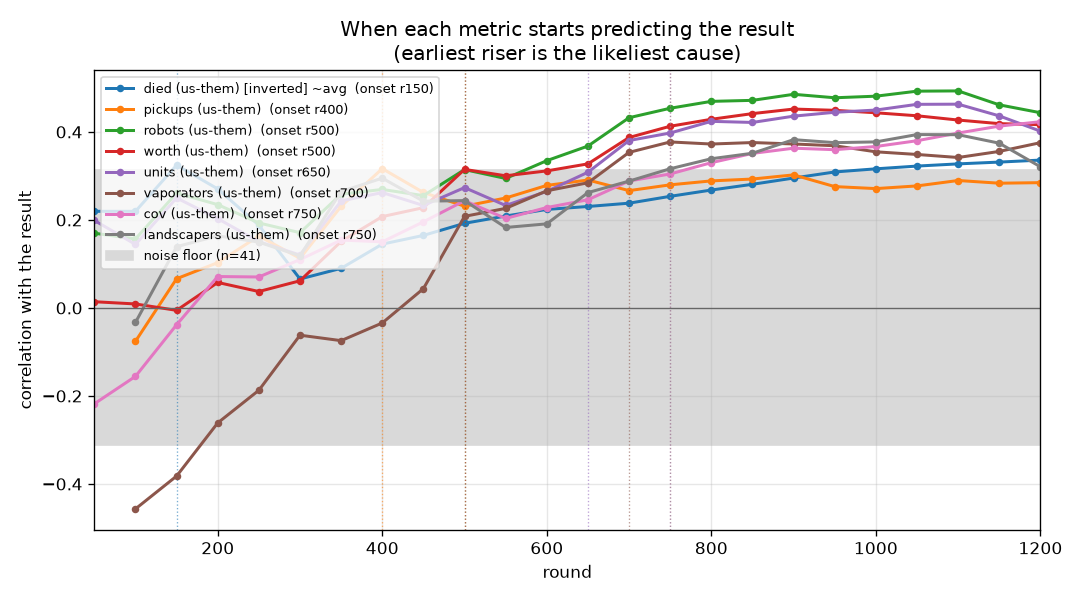
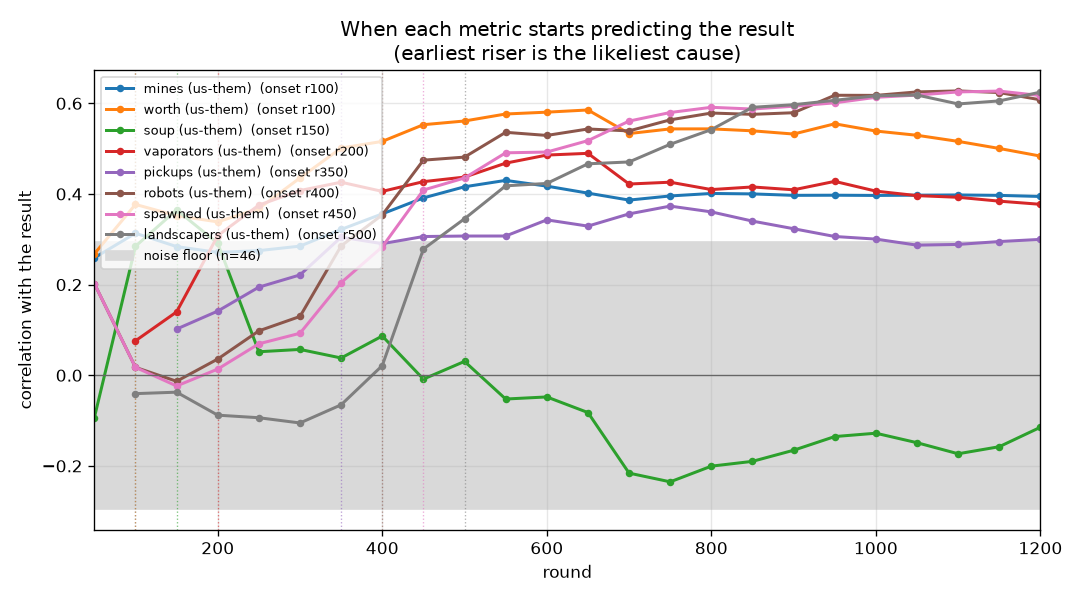
Arm 49b: 42-54, late losses 25 of 96 (bar 22, null); gate 49b 3-0 discordant at 160 pairs; ladder files
Claude-Session: https://claude.ai/code/session_015tNyF5ucwWW1mudpEQTT25

diff --git a/progress/ELO.md b/progress/ELO.md
@@ -1,110 +1,112 @@
 # Ladder
 
-4985 scrimmages (ours only), 4461 distinct (a repeated pairing with the same seed replays the same game and counts once), rated by a batch Bradley-Terry fit on the Elo scale (`tools/elolib.py`); each of our builds is its own player. 65 of 65 ladder bots met.
+5081 scrimmages (ours only), 4557 distinct (a repeated pairing with the same seed replays the same game and counts once), rated by a batch Bradley-Terry fit on the Elo scale (`tools/elolib.py`); each of our builds is its own player. 65 of 65 ladder bots met.
 
 Our builds (rating +- 95%; field score = expected score against every ladder bot, one game each):
 
 | build | rating | rank | games | record | field score |
 |---|---|---|---|---|---|
-| cand43b | 1761 +- 79 | 14 of 82 | 96 | 64-32 | 76.2% |
-| cand47d | 1742 +- 53 | 17 of 82 | 192 | 73-119 | 75.1% |
-| g_iter9 | 1727 +- 48 | 18 of 82 | 240 | 78-162 | 74.2% |
-| g_iter8 | 1715 +- 49 | 19 of 82 | 240 | 108-132 | 73.4% |
-| cand41b | 1713 +- 76 | 20 of 82 | 96 | 51-45 | 73.3% |
-| g_iter7 | 1703 +- 44 | 21 of 82 | 288 | 135-153 | 72.6% |
-| g_iter5 | 1700 +- 34 | 22 of 82 | 618 | 329-289 | 72.5% |
-| g_iter6 | 1697 +- 26 | 23 of 82 | 886 | 450-436 | 72.3% |
-| cand40c | 1697 +- 77 | 24 of 82 | 96 | 57-39 | 72.3% |
-| cand42c | 1696 +- 76 | 25 of 82 | 96 | 49-47 | 72.2% |
-| cand37 | 1670 +- 76 | 26 of 82 | 96 | 46-50 | 70.4% |
-| iter24 | 1669 +- 129 | 27 of 82 | 46 | 11-35 | 70.4% |
-| g_iter3 | 1661 +- 33 | 28 of 82 | 796 | 167-629 | 69.8% |
-| cand31 | 1657 +- 76 | 29 of 82 | 96 | 52-44 | 69.5% |
-| g_iter4 | 1640 +- 64 | 30 of 82 | 217 | 43-174 | 68.3% |
-| g_iter2 | 1586 +- 69 | 31 of 82 | 192 | 44-148 | 64.0% |
-| g_iter1 | 1564 +- 69 | 32 of 82 | 170 | 95-75 | 62.2% |
+| cand43b | 1755 +- 79 | 15 of 83 | 96 | 64-32 | 76.1% |
+| cand49b | 1751 +- 74 | 16 of 83 | 96 | 42-54 | 75.8% |
+| cand47d | 1738 +- 53 | 17 of 83 | 192 | 73-119 | 75.0% |
+| g_iter9 | 1723 +- 48 | 19 of 83 | 240 | 78-162 | 74.2% |
+| g_iter8 | 1709 +- 49 | 20 of 83 | 240 | 108-132 | 73.3% |
+| cand41b | 1707 +- 76 | 21 of 83 | 96 | 51-45 | 73.1% |
+| g_iter7 | 1698 +- 44 | 22 of 83 | 288 | 135-153 | 72.5% |
+| g_iter5 | 1695 +- 34 | 23 of 83 | 618 | 329-289 | 72.4% |
+| g_iter6 | 1691 +- 26 | 24 of 83 | 886 | 450-436 | 72.1% |
+| cand40c | 1691 +- 77 | 25 of 83 | 96 | 57-39 | 72.1% |
+| cand42c | 1690 +- 76 | 26 of 83 | 96 | 49-47 | 72.0% |
+| iter24 | 1664 +- 129 | 27 of 83 | 46 | 11-35 | 70.3% |
+| cand37 | 1664 +- 76 | 28 of 83 | 96 | 46-50 | 70.3% |
+| g_iter3 | 1656 +- 33 | 29 of 83 | 796 | 167-629 | 69.7% |
+| cand31 | 1651 +- 76 | 30 of 83 | 96 | 52-44 | 69.4% |
+| g_iter4 | 1635 +- 64 | 31 of 83 | 217 | 43-174 | 68.2% |
+| g_iter2 | 1580 +- 69 | 32 of 83 | 192 | 44-148 | 63.9% |
+| g_iter1 | 1560 +- 69 | 33 of 83 | 170 | 95-75 | 62.1% |
 
 | rank | player | rating | +- 95% | games | W-L |
 |---|---|---|---|---|---|
-| 1 | awesomelemonade.citricsky | 2264 | 200 | 103 | 101-2 |
-| 2 | uvafan.v14_final_bot | 2255 | 200 | 98 | 96-2 |
-| 3 | AngusRitossa.newbot | 2196 | 174 | 95 | 92-3 |
-| 4 | StoneT2000.FinalChowBotStable | 2012 | 212 | 21 | 19-2 |
-| 5 | rzhan11.quals_bot | 2005 | 115 | 86 | 77-9 |
-| 6 | battlecode20-team4.finalbota | 2002 | 65 | 226 | 195-31 |
-| 7 | IvanGeffner.finalbota | 2001 | 105 | 101 | 90-11 |
-| 8 | ronniesong0809.finalbota | 1994 | 105 | 97 | 86-11 |
-| 9 | winkelmantanner.tannerplayer | 1959 | 63 | 206 | 171-35 |
-| 10 | EmaPajic.Qualifications | 1935 | 53 | 257 | 207-50 |
-| 11 | mvpatel2000.qual | 1927 | 61 | 193 | 155-38 |
-| 12 | poortho.stable_seeding_bot | 1830 | 36 | 425 | 292-133 |
-| 13 | cormackikkert.whyPermutator | 1768 | 34 | 433 | 262-171 |
-| 14 | **us:cand43b** | 1761 | 79 | 96 | 64-32 |
-| 15 | laurenschneider.pdx_team_one | 1761 | 33 | 440 | 262-178 |
-| 16 | benzyx.seeding | 1743 | 33 | 436 | 249-187 |
-| 17 | **us:cand47d** | 1742 | 53 | 192 | 73-119 |
-| 18 | **us:g_iter9** | 1727 | 48 | 240 | 78-162 |
-| 19 | **us:g_iter8** | 1715 | 49 | 240 | 108-132 |
-| 20 | **us:cand41b** | 1713 | 76 | 96 | 51-45 |
-| 21 | **us:g_iter7** | 1703 | 44 | 288 | 135-153 |
-| 22 | **us:g_iter5** | 1700 | 34 | 618 | 329-289 |
-| 23 | **us:g_iter6** | 1697 | 26 | 886 | 450-436 |
-| 24 | **us:cand40c** | 1697 | 77 | 96 | 57-39 |
-| 25 | **us:cand42c** | 1696 | 76 | 96 | 49-47 |
-| 26 | **us:cand37** | 1670 | 76 | 96 | 46-50 |
-| 27 | **us:iter24** | 1669 | 129 | 46 | 11-35 |
-| 28 | **us:g_iter3** | 1661 | 33 | 796 | 167-629 |
-| 29 | **us:cand31** | 1657 | 76 | 96 | 52-44 |
-| 30 | **us:g_iter4** | 1640 | 64 | 217 | 43-174 |
-| 31 | **us:g_iter2** | 1586 | 69 | 192 | 44-148 |
-| 32 | **us:g_iter1** | 1564 | 69 | 170 | 95-75 |
-| 33 | wpine215.stardustv2 | 1528 | 38 | 389 | 111-278 |
-| 34 | mhahn2003.nonrush | 1475 | 52 | 250 | 56-194 |
-| 35 | eggag32.BrutalPigeonBot | 1474 | 59 | 194 | 42-152 |
-| 36 | ARognes.FinalSubmission | 1432 | 147 | 31 | 6-25 |
-| 37 | cs454-w20-team3.playbot | 1424 | 117 | 50 | 10-40 |
-| 38 | TeamSerpentine.noodleBot | 1421 | 147 | 32 | 6-26 |
-| 39 | VinayaBhat.team10pdx | 1408 | 233 | 9 | 2-7 |
-| 40 | WilliamYue37.Player1 | 1403 | 142 | 40 | 6-34 |
-| 41 | yaonam.Robot_1 | 1395 | 156 | 33 | 5-28 |
-| 42 | jenlz.bustedJulianbot | 1394 | 275 | 8 | 1-7 |
-| 43 | Tim-gubski.AngryWaffleMaker | 1385 | 155 | 32 | 5-27 |
-| 44 | opheez.landscapers | 1378 | 272 | 9 | 1-8 |
-| 45 | ovimura.welovesoup | 1378 | 272 | 9 | 1-8 |
-| 46 | rsandzimier.SandSibs_seeding | 1378 | 272 | 9 | 1-8 |
-| 47 | thissop.alpha | 1378 | 272 | 9 | 1-8 |
-| 48 | cosimogonnelli.Team3player | 1355 | 276 | 7 | 1-6 |
-| 49 | LucianCov.ourRobot | 1338 | 388 | 3 | 0-3 |
-| 50 | MrHoseongLee.Neptune_v3 | 1338 | 388 | 3 | 0-3 |
-| 51 | Phrancium.Frankplayer1 | 1338 | 388 | 3 | 0-3 |
-| 52 | Pleket.Bot | 1338 | 388 | 3 | 0-3 |
-| 53 | Strequals.rw8 | 1338 | 388 | 3 | 0-3 |
-| 54 | Sukanya-Kothapally.team4player | 1338 | 388 | 3 | 0-3 |
-| 55 | TeamSerpentine.eendagsvliegjes | 1338 | 388 | 3 | 0-3 |
-| 56 | Tolsi.mybot | 1338 | 388 | 3 | 0-3 |
-| 57 | anthonybench.FunkBot | 1338 | 388 | 3 | 0-3 |
-| 58 | atliSig.buttletplayer | 1338 | 388 | 3 | 0-3 |
-| 59 | charboltron.team11newbot | 1338 | 388 | 3 | 0-3 |
-| 60 | djkeyes.addingComm | 1338 | 388 | 3 | 0-3 |
-| 61 | fewella.FirstPlayer | 1338 | 388 | 3 | 0-3 |
-| 62 | jmerle.camel_case_sprint | 1338 | 388 | 3 | 0-3 |
-| 63 | kylittle.qualsbot2 | 1338 | 388 | 3 | 0-3 |
-| 64 | lfchain.bigBudsBot | 1338 | 388 | 3 | 0-3 |
-| 65 | luisgonzalex.CodeMonkeys | 1338 | 388 | 3 | 0-3 |
-| 66 | mama4294.maloneplayer | 1338 | 388 | 3 | 0-3 |
-| 67 | max-titov.seeding | 1338 | 388 | 3 | 0-3 |
-| 68 | michaeltliu.beginnerplayer | 1338 | 388 | 3 | 0-3 |
-| 69 | monmouth-college-cs.MyFirstPlayer | 1338 | 388 | 3 | 0-3 |
-| 70 | ngkuru.qualifyingtournament | 1338 | 388 | 3 | 0-3 |
-| 71 | orionquick.aldebaranplayer | 1338 | 388 | 3 | 0-3 |
-| 72 | snpushpi.whatamidoing | 1338 | 388 | 3 | 0-3 |
-| 73 | stevetimberman.playerbbbbb | 1338 | 388 | 3 | 0-3 |
-| 74 | willBoyd8.bb8 | 1338 | 388 | 3 | 0-3 |
-| 75 | A9ine.potato | 1233 | 367 | 6 | 0-6 |
-| 76 | 9mAhmad.MahinBot | 1209 | 363 | 7 | 0-7 |
-| 77 | 9mAhmad.lostincoordinates | 1209 | 363 | 7 | 0-7 |
-| 78 | AllenWang314.bot1 | 1209 | 363 | 7 | 0-7 |
-| 79 | GabrielDWu.buildawall2 | 1209 | 363 | 7 | 0-7 |
-| 80 | J-J-Chen.player | 1209 | 363 | 7 | 0-7 |
-| 81 | KyleHassold.sprintbot | 1209 | 363 | 7 | 0-7 |
-| 82 | denver-blake.sprint | 1209 | 363 | 7 | 0-7 |
+| 1 | awesomelemonade.citricsky | 2259 | 200 | 103 | 101-2 |
+| 2 | uvafan.v14_final_bot | 2250 | 200 | 98 | 96-2 |
+| 3 | AngusRitossa.newbot | 2191 | 174 | 95 | 92-3 |
+| 4 | StoneT2000.FinalChowBotStable | 2006 | 212 | 21 | 19-2 |
+| 5 | rzhan11.quals_bot | 2000 | 115 | 86 | 77-9 |
+| 6 | battlecode20-team4.finalbota | 1997 | 65 | 226 | 195-31 |
+| 7 | IvanGeffner.finalbota | 1996 | 105 | 101 | 90-11 |
+| 8 | ronniesong0809.finalbota | 1990 | 105 | 97 | 86-11 |
+| 9 | winkelmantanner.tannerplayer | 1953 | 60 | 218 | 180-38 |
+| 10 | mvpatel2000.qual | 1934 | 60 | 205 | 166-39 |
+| 11 | EmaPajic.Qualifications | 1927 | 52 | 269 | 215-54 |
+| 12 | poortho.stable_seeding_bot | 1830 | 35 | 437 | 302-135 |
+| 13 | cormackikkert.whyPermutator | 1757 | 33 | 445 | 265-180 |
+| 14 | laurenschneider.pdx_team_one | 1757 | 33 | 452 | 269-183 |
+| 15 | **us:cand43b** | 1755 | 79 | 96 | 64-32 |
+| 16 | **us:cand49b** | 1751 | 74 | 96 | 42-54 |
+| 17 | **us:cand47d** | 1738 | 53 | 192 | 73-119 |
+| 18 | benzyx.seeding | 1738 | 33 | 448 | 255-193 |
+| 19 | **us:g_iter9** | 1723 | 48 | 240 | 78-162 |
+| 20 | **us:g_iter8** | 1709 | 49 | 240 | 108-132 |
+| 21 | **us:cand41b** | 1707 | 76 | 96 | 51-45 |
+| 22 | **us:g_iter7** | 1698 | 44 | 288 | 135-153 |
+| 23 | **us:g_iter5** | 1695 | 34 | 618 | 329-289 |
+| 24 | **us:g_iter6** | 1691 | 26 | 886 | 450-436 |
+| 25 | **us:cand40c** | 1691 | 77 | 96 | 57-39 |
+| 26 | **us:cand42c** | 1690 | 76 | 96 | 49-47 |
+| 27 | **us:iter24** | 1664 | 129 | 46 | 11-35 |
+| 28 | **us:cand37** | 1664 | 76 | 96 | 46-50 |
+| 29 | **us:g_iter3** | 1656 | 33 | 796 | 167-629 |
+| 30 | **us:cand31** | 1651 | 76 | 96 | 52-44 |
+| 31 | **us:g_iter4** | 1635 | 64 | 217 | 43-174 |
+| 32 | **us:g_iter2** | 1580 | 69 | 192 | 44-148 |
+| 33 | **us:g_iter1** | 1560 | 69 | 170 | 95-75 |
+| 34 | wpine215.stardustv2 | 1518 | 38 | 401 | 111-290 |
+| 35 | mhahn2003.nonrush | 1469 | 52 | 250 | 56-194 |
+| 36 | eggag32.BrutalPigeonBot | 1469 | 59 | 194 | 42-152 |
+| 37 | ARognes.FinalSubmission | 1427 | 147 | 31 | 6-25 |
+| 38 | cs454-w20-team3.playbot | 1419 | 117 | 50 | 10-40 |
+| 39 | TeamSerpentine.noodleBot | 1417 | 146 | 32 | 6-26 |
+| 40 | VinayaBhat.team10pdx | 1404 | 233 | 9 | 2-7 |
+| 41 | WilliamYue37.Player1 | 1398 | 142 | 40 | 6-34 |
+| 42 | jenlz.bustedJulianbot | 1390 | 275 | 8 | 1-7 |
+| 43 | yaonam.Robot_1 | 1390 | 156 | 33 | 5-28 |
+| 44 | Tim-gubski.AngryWaffleMaker | 1380 | 155 | 32 | 5-27 |
+| 45 | opheez.landscapers | 1374 | 272 | 9 | 1-8 |
+| 46 | ovimura.welovesoup | 1374 | 272 | 9 | 1-8 |
+| 47 | rsandzimier.SandSibs_seeding | 1374 | 272 | 9 | 1-8 |
+| 48 | thissop.alpha | 1374 | 272 | 9 | 1-8 |
+| 49 | cosimogonnelli.Team3player | 1352 | 276 | 7 | 1-6 |
+| 50 | LucianCov.ourRobot | 1336 | 388 | 3 | 0-3 |
+| 51 | MrHoseongLee.Neptune_v3 | 1336 | 388 | 3 | 0-3 |
+| 52 | Phrancium.Frankplayer1 | 1336 | 388 | 3 | 0-3 |
+| 53 | Pleket.Bot | 1336 | 388 | 3 | 0-3 |
+| 54 | Strequals.rw8 | 1336 | 388 | 3 | 0-3 |
+| 55 | Sukanya-Kothapally.team4player | 1336 | 388 | 3 | 0-3 |
+| 56 | TeamSerpentine.eendagsvliegjes | 1336 | 388 | 3 | 0-3 |
+| 57 | Tolsi.mybot | 1336 | 388 | 3 | 0-3 |
+| 58 | anthonybench.FunkBot | 1336 | 388 | 3 | 0-3 |
+| 59 | atliSig.buttletplayer | 1336 | 388 | 3 | 0-3 |
+| 60 | charboltron.team11newbot | 1336 | 388 | 3 | 0-3 |
+| 61 | djkeyes.addingComm | 1336 | 388 | 3 | 0-3 |
+| 62 | fewella.FirstPlayer | 1336 | 388 | 3 | 0-3 |
+| 63 | jmerle.camel_case_sprint | 1336 | 388 | 3 | 0-3 |
+| 64 | kylittle.qualsbot2 | 1336 | 388 | 3 | 0-3 |
+| 65 | lfchain.bigBudsBot | 1336 | 388 | 3 | 0-3 |
+| 66 | luisgonzalex.CodeMonkeys | 1336 | 388 | 3 | 0-3 |
+| 67 | mama4294.maloneplayer | 1336 | 388 | 3 | 0-3 |
+| 68 | max-titov.seeding | 1336 | 388 | 3 | 0-3 |
+| 69 | michaeltliu.beginnerplayer | 1336 | 388 | 3 | 0-3 |
+| 70 | monmouth-college-cs.MyFirstPlayer | 1336 | 388 | 3 | 0-3 |
+| 71 | ngkuru.qualifyingtournament | 1336 | 388 | 3 | 0-3 |
+| 72 | orionquick.aldebaranplayer | 1336 | 388 | 3 | 0-3 |
+| 73 | snpushpi.whatamidoing | 1336 | 388 | 3 | 0-3 |
+| 74 | stevetimberman.playerbbbbb | 1336 | 388 | 3 | 0-3 |
+| 75 | willBoyd8.bb8 | 1336 | 388 | 3 | 0-3 |
+| 76 | A9ine.potato | 1231 | 367 | 6 | 0-6 |
+| 77 | 9mAhmad.MahinBot | 1206 | 363 | 7 | 0-7 |
+| 78 | 9mAhmad.lostincoordinates | 1206 | 363 | 7 | 0-7 |
+| 79 | AllenWang314.bot1 | 1206 | 363 | 7 | 0-7 |
+| 80 | GabrielDWu.buildawall2 | 1206 | 363 | 7 | 0-7 |
+| 81 | J-J-Chen.player | 1206 | 363 | 7 | 0-7 |
+| 82 | KyleHassold.sprintbot | 1206 | 363 | 7 | 0-7 |
+| 83 | denver-blake.sprint | 1206 | 363 | 7 | 0-7 |

diff --git a/progress/ONSET.md b/progress/ONSET.md
@@ -1,6 +1,6 @@
 # Which metric starts predicting the result first
 
-41 games, 14 wins. Noise floor about 0.31; a correlation inside that band is not evidence.
+46 games, 17 wins. Noise floor about 0.29; a correlation inside that band is not evidence.
 
 Every metric is oriented so **higher is better for us**, so a positive correlation always means
 "this being better goes with winning". `~avg` is the running mean over all rounds so far rather than
@@ -12,46 +12,46 @@ See `progress/METRICS.md` for how each quantity is computed.
 
 | onset | anti | metric | peak corr | r100 | r200 | r300 | r400 | r600 | r900 |
 |---|---|---|---|---|---|---|---|---|---|
-| r150 | - | died (us-them) [inverted] ~avg | +0.34 | +0.22 | +0.27 | +0.07 | +0.15 | +0.22 | +0.30 |
-| r400 | - | pickups (us-them) | +0.32 | -0.08 | +0.10 | +0.11 | +0.32 | +0.28 | +0.30 |
-| r500 | - | robots (us-them) | +0.49 | +0.16 | +0.23 | +0.17 | +0.27 | +0.33 | +0.49 |
-| r500 | - | worth (us-them) | +0.45 | +0.01 | +0.06 | +0.06 | +0.21 | +0.31 | +0.45 |
-| r650 | - | units (us-them) | +0.46 | +0.14 | +0.20 | +0.12 | +0.26 | +0.26 | +0.44 |
-| r700 | r100 | vaporators (us-them) | -0.46 | -0.46 | -0.26 | -0.06 | -0.03 | +0.27 | +0.37 |
-| r750 | - | cov (us-them) | +0.42 | -0.16 | +0.07 | +0.11 | +0.15 | +0.23 | +0.36 |
-| r750 | - | landscapers (us-them) | +0.39 | -0.03 | +0.16 | +0.12 | +0.29 | +0.19 | +0.38 |
-| r750 | - | robots (us-them) ~avg | +0.43 | +0.18 | +0.24 | +0.19 | +0.24 | +0.27 | +0.39 |
-| r750 | - | spawned (us-them) | +0.40 | +0.15 | +0.22 | +0.17 | +0.19 | +0.21 | +0.37 |
-| r800 | - | died (us-them) [inverted] | +0.38 | +0.22 | +0.10 | -0.04 | +0.22 | +0.27 | +0.38 |
-| r800 | - | units (us-them) ~avg | +0.39 | +0.18 | +0.23 | +0.15 | +0.21 | +0.22 | +0.35 |
-| r800 | - | worth (us-them) ~avg | +0.40 | +0.01 | +0.03 | +0.02 | +0.11 | +0.21 | +0.34 |
-| r850 | - | mines (us-them) | +0.31 | +0.02 | +0.09 | +0.09 | +0.16 | +0.24 | +0.31 |
-| r900 | - | digs (us-them) | +0.31 | +0.03 | +0.23 | +0.21 | +0.25 | +0.26 | +0.30 |
-| r900 | - | landscapers (us-them) ~avg | +0.33 | -0.03 | +0.13 | +0.08 | +0.20 | +0.21 | +0.30 |
-| r900 | - | pickups (us-them) ~avg | +0.30 | -0.08 | +0.09 | +0.15 | +0.25 | +0.28 | +0.30 |
-| r950 | - | drones (us-them) | +0.40 | -0.09 | +0.15 | +0.28 | +0.16 | +0.22 | +0.29 |
-| r950 | r100 | vaporators (us-them) ~avg | -0.46 | -0.46 | -0.38 | -0.22 | -0.14 | +0.08 | +0.27 |
-| r1000 | - | moves (us-them) | +0.38 | -0.04 | -0.01 | +0.02 | +0.05 | +0.10 | +0.30 |
-| r1050 | - | drones (us-them) ~avg | +0.35 | -0.09 | +0.06 | +0.21 | +0.22 | +0.19 | +0.28 |
-| r1100 | - | cov (us-them) ~avg | +0.33 | -0.20 | -0.02 | +0.04 | +0.10 | +0.13 | +0.26 |
-| r1150 | - | spawned (us-them) ~avg | +0.32 | +0.16 | +0.22 | +0.17 | +0.19 | +0.17 | +0.27 |
-| - | - | aba (us-them) [inverted] | +0.26 | -0.01 | -0.01 | +0.12 | +0.20 | +0.25 | +0.10 |
-| - | - | aba (us-them) [inverted] ~avg | +0.25 | +0.00 | -0.03 | +0.07 | +0.15 | +0.23 | +0.22 |
-| - | - | digs (us-them) ~avg | +0.30 | +0.03 | +0.21 | +0.19 | +0.23 | +0.27 | +0.30 |
-| - | - | dirtDeps (us-them) | +0.30 | +0.13 | +0.23 | +0.20 | +0.24 | +0.25 | +0.29 |
-| - | - | dirtDeps (us-them) ~avg | +0.29 | +0.13 | +0.21 | +0.17 | +0.22 | +0.25 | +0.29 |
+| r100 | - | mines (us-them) | +0.43 | +0.31 | +0.27 | +0.28 | +0.36 | +0.42 | +0.40 |
+| r100 | - | mines (us-them) ~avg | +0.42 | +0.31 | +0.30 | +0.26 | +0.31 | +0.40 | +0.42 |
+| r100 | - | worth (us-them) | +0.59 | +0.38 | +0.34 | +0.44 | +0.52 | +0.58 | +0.53 |
+| r100 | - | worth (us-them) ~avg | +0.58 | +0.36 | +0.38 | +0.40 | +0.48 | +0.57 | +0.57 |
+| r150 | - | soup (us-them) | +0.36 | +0.28 | +0.29 | +0.06 | +0.09 | -0.05 | -0.17 |
+| r150 | - | soup (us-them) ~avg | +0.38 | +0.22 | +0.38 | +0.27 | +0.17 | +0.05 | -0.10 |
+| r200 | - | vaporators (us-them) | +0.49 | +0.08 | +0.31 | +0.41 | +0.41 | +0.49 | +0.41 |
+| r300 | - | vaporators (us-them) ~avg | +0.49 | +0.08 | +0.23 | +0.36 | +0.41 | +0.47 | +0.48 |
+| r350 | - | pickups (us-them) | +0.37 | . | +0.14 | +0.22 | +0.29 | +0.34 | +0.32 |
+| r400 | - | robots (us-them) | +0.63 | +0.02 | +0.04 | +0.13 | +0.35 | +0.53 | +0.58 |
+| r450 | - | spawned (us-them) | +0.63 | +0.02 | +0.01 | +0.09 | +0.28 | +0.49 | +0.59 |
+| r500 | - | landscapers (us-them) | +0.62 | -0.04 | -0.09 | -0.11 | +0.02 | +0.42 | +0.60 |
+| r500 | - | pickups (us-them) ~avg | +0.36 | . | +0.14 | +0.20 | +0.28 | +0.32 | +0.36 |
+| r500 | - | robots (us-them) ~avg | +0.61 | +0.08 | +0.04 | +0.05 | +0.18 | +0.45 | +0.56 |
+| r500 | - | units (us-them) | +0.54 | -0.05 | -0.08 | -0.10 | +0.10 | +0.43 | +0.50 |
+| r550 | - | spawned (us-them) ~avg | +0.60 | +0.08 | +0.03 | +0.03 | +0.12 | +0.38 | +0.54 |
+| r700 | - | digs (us-them) | +0.58 | +0.05 | +0.06 | -0.01 | +0.00 | +0.24 | +0.49 |
+| r700 | - | dirtDeps (us-them) | +0.58 | +0.04 | +0.06 | -0.02 | -0.02 | +0.21 | +0.48 |
+| r700 | - | landscapers (us-them) ~avg | +0.61 | -0.04 | -0.07 | -0.13 | -0.11 | +0.22 | +0.50 |
+| r700 | - | units (us-them) ~avg | +0.51 | -0.00 | -0.05 | -0.11 | -0.06 | +0.24 | +0.45 |
+| r750 | - | miners (us-them) | +0.38 | -0.05 | -0.09 | -0.10 | +0.11 | +0.24 | +0.37 |
+| r850 | - | digs (us-them) ~avg | +0.51 | +0.05 | +0.07 | +0.00 | -0.02 | +0.09 | +0.35 |
+| r850 | - | moves (us-them) | +0.42 | -0.19 | -0.18 | -0.12 | -0.07 | +0.13 | +0.34 |
+| r900 | - | dirtDeps (us-them) ~avg | +0.50 | +0.04 | +0.07 | -0.00 | -0.04 | +0.06 | +0.33 |
+| r950 | - | netguns (us-them) | +0.33 | . | -0.19 | -0.01 | +0.09 | +0.20 | +0.23 |
+| r1150 | - | moves (us-them) ~avg | +0.33 | -0.16 | -0.20 | -0.14 | -0.11 | +0.01 | +0.21 |
+| - | r950 | aba (us-them) [inverted] | -0.34 | +0.15 | +0.21 | +0.14 | +0.01 | -0.16 | -0.28 |
+| - | - | aba (us-them) [inverted] ~avg | -0.29 | +0.13 | +0.17 | +0.15 | +0.11 | -0.07 | -0.20 |
+| - | - | cov (us-them) | +0.27 | -0.14 | -0.17 | -0.10 | -0.07 | +0.02 | +0.25 |
+| - | - | cov (us-them) ~avg | -0.19 | -0.06 | -0.19 | -0.14 | -0.13 | -0.09 | +0.07 |
+| - | - | died (us-them) [inverted] | +0.28 | . | +0.22 | +0.12 | +0.22 | +0.26 | +0.16 |
+| - | - | died (us-them) [inverted] ~avg | +0.27 | . | +0.25 | +0.23 | +0.24 | +0.25 | +0.21 |
+| - | - | drones (us-them) | +0.28 | +0.04 | +0.08 | +0.12 | +0.11 | +0.17 | +0.24 |
+| - | - | drones (us-them) ~avg | +0.25 | +0.04 | +0.09 | +0.09 | +0.13 | +0.14 | +0.23 |
 | - | - | drowned (us-them) [inverted] | . | . | . | . | . | . | . |
 | - | - | drowned (us-them) [inverted] ~avg | . | . | . | . | . | . | . |
-| - | - | hqBuried (us-them) [inverted] | +0.22 | +0.13 | +0.19 | +0.13 | +0.13 | +0.12 | +0.12 |
-| - | - | hqBuried (us-them) [inverted] ~avg | +0.22 | +0.13 | +0.18 | +0.02 | +0.07 | +0.09 | +0.10 |
-| - | - | miners (us-them) | +0.29 | +0.27 | +0.10 | -0.02 | +0.06 | +0.19 | +0.29 |
-| - | - | miners (us-them) ~avg | +0.27 | +0.26 | +0.22 | +0.13 | +0.11 | +0.11 | +0.16 |
-| - | - | mines (us-them) ~avg | +0.24 | +0.02 | +0.06 | +0.06 | +0.11 | +0.14 | +0.21 |
-| - | - | moves (us-them) ~avg | +0.27 | -0.03 | -0.01 | +0.02 | +0.03 | +0.04 | +0.19 |
-| - | - | netguns (us-them) | +0.18 | . | +0.04 | -0.02 | -0.03 | +0.05 | +0.05 |
-| - | - | netguns (us-them) ~avg | +0.11 | . | +0.07 | +0.03 | +0.01 | -0.03 | +0.01 |
-| - | - | soup (us-them) | -0.22 | +0.03 | -0.20 | -0.22 | -0.16 | -0.16 | -0.12 |
-| - | - | soup (us-them) ~avg | -0.22 | -0.01 | -0.15 | -0.21 | -0.21 | -0.15 | -0.17 |
+| - | - | hqBuried (us-them) [inverted] | +0.11 | +0.11 | . | +0.11 | . | . | . |
+| - | - | hqBuried (us-them) [inverted] ~avg | -0.20 | +0.11 | +0.11 | +0.11 | -0.20 | -0.20 | -0.20 |
+| - | - | miners (us-them) ~avg | +0.28 | +0.02 | -0.04 | -0.08 | -0.02 | +0.09 | +0.22 |
+| - | - | netguns (us-them) ~avg | +0.27 | . | -0.19 | -0.11 | -0.01 | +0.12 | +0.21 |
 
 **Reading it.** Earliest onset is the first place to look: temporal precedence is the one causal hint a
 correlation can honestly give. Late-onset metrics are usually the scoreboard rather than the cause -- by then

diff --git a/BENCHMARK.md b/BENCHMARK.md
@@ -62,7 +62,7 @@ build with at least 200 recorded games: a candidate's short ladder arm never re-
 | `EmaPajic.Mark3` | EmaPajic_Battlecode-2020 (c060a22) | - | - | untested |  |
 | `EmaPajic.Mark4` | EmaPajic_Battlecode-2020 (c060a22) | - | - | untested |  |
 | `EmaPajic.Mark5` | EmaPajic_Battlecode-2020 (c060a22) | - | - | untested |  |
-| `EmaPajic.Qualifications` | EmaPajic_Battlecode-2020 (c060a22) | 20 | 30 | target | 20 0 21 0 50 0 17 38 8 25 10 17 20 33 |
+| `EmaPajic.Qualifications` | EmaPajic_Battlecode-2020 (c060a22) | 20 | 30 | target | 20 0 21 0 50 0 17 38 8 25 10 17 20 33 33 |
 | `EmaPajic.SeedingBot` | EmaPajic_Battlecode-2020 (c060a22) | - | - | untested |  |
 | `GabrielDWu.basicbot` | GabrielDWu_blezers-battlecode2020 (c0283f8) | - | - | untested |  |
 | `GabrielDWu.blezerbot` | GabrielDWu_blezers-battlecode2020 (c0283f8) | - | - | untested |  |
@@ -171,11 +171,11 @@ build with at least 200 recorded games: a candidate's short ladder arm never re-
 | `benzyx.espada` | benzyx_bc20-waterloo (05df2e7) | - | - | untested |  |
 | `benzyx.firstplayer` | benzyx_bc20-waterloo (05df2e7) | - | - | untested |  |
 | `benzyx.kurobot` | benzyx_bc20-waterloo (05df2e7) | - | - | untested |  |
-| `benzyx.seeding` | benzyx_bc20-waterloo (05df2e7) | 53 | 30 | peer | 25 17 50 40 25 45 41 33 36 33 33 58 50 25 58 53 50 |
+| `benzyx.seeding` | benzyx_bc20-waterloo (05df2e7) | 53 | 30 | peer | 25 17 50 40 25 45 41 33 36 33 33 58 50 25 58 53 50 50 |
 | `benzyx.tortuga` | benzyx_bc20-waterloo (05df2e7) | - | - | untested |  |
 | `charboltron.master_player` | charboltron_pdx_battlecode_2020_team_11 (f78f1e3) | - | - | untested |  |
 | `charboltron.team11newbot` | charboltron_pdx_battlecode_2020_team_11 (f78f1e3) | 100 | 2 | peer(>90 once) | 100 100 |
-| `cormackikkert.whyPermutator` | cormackikkert_battlecode2020 (4d230c4) | 50 | 30 | peer | 25 17 38 40 25 42 45 25 28 25 42 33 47 58 42 50 38 |
+| `cormackikkert.whyPermutator` | cormackikkert_battlecode2020 (4d230c4) | 50 | 30 | peer | 25 17 38 40 25 42 45 25 28 25 42 33 47 58 42 50 38 75 |
 | `cormackikkert.whyPermutatorOld` | cormackikkert_battlecode2020 (4d230c4) | - | - | untested |  |
 | `cosimogonnelli.Team3player` | cosimogonnelli_CS454-554-SE (d7dc657) | 100 | 2 | peer(>90 once) | 80 100 |
 | `cs454-w20-team3.oldbot` | cs454-w20-team3_team3-bot (502c334) | - | - | untested |  |
@@ -203,7 +203,7 @@ build with at least 200 recorded games: a candidate's short ladder arm never re-
 | `kylittle.deliriumv1` | kylittle_DeliriumBattlecode (17a94dd) | - | - | untested |  |
 | `kylittle.qualsbot` | kylittle_DeliriumBattlecode (17a94dd) | - | - | untested |  |
 | `kylittle.qualsbot2` | kylittle_DeliriumBattlecode (17a94dd) | 100 | 2 | peer(>90 once) | 100 100 |
-| `laurenschneider.pdx_team_one` | laurenschneider_battlecode20-PDXTeamOne (2965376) | 47 | 30 | target | 0 50 39 14 0 47 38 0 50 50 50 42 47 42 50 47 50 |
+| `laurenschneider.pdx_team_one` | laurenschneider_battlecode20-PDXTeamOne (2965376) | 47 | 30 | target | 0 50 39 14 0 47 38 0 50 50 50 42 47 42 50 47 50 42 |
 | `lfchain.bigBudsBot` | lfchain_Battlecode2020 (b026153) | 100 | 2 | peer(>90 once) | 100 100 |
 | `lfchain.fBot` | lfchain_Battlecode2020 (b026153) | - | - | untested |  |
 | `lfchain.jBot` | lfchain_Battlecode2020 (b026153) | - | - | untested |  |
@@ -246,7 +246,7 @@ build with at least 200 recorded games: a candidate's short ladder arm never re-
 | `mvpatel2000.oldhades` | mvpatel2000_Battlecode2020 (554943e) | - | - | untested |  |
 | `mvpatel2000.poseidon` | mvpatel2000_Battlecode2020 (554943e) | - | - | untested |  |
 | `mvpatel2000.quail` | mvpatel2000_Battlecode2020 (554943e) | - | - | untested |  |
-| `mvpatel2000.qual` | mvpatel2000_Battlecode2020 (554943e) | 20 | 30 | target | 0 8 24 13 67 12 0 12 20 46 |
+| `mvpatel2000.qual` | mvpatel2000_Battlecode2020 (554943e) | 20 | 30 | target | 0 8 24 13 67 12 0 12 20 46 8 |
 | `mvpatel2000.qualAttacc` | mvpatel2000_Battlecode2020 (554943e) | - | - | untested |  |
 | `mvpatel2000.qualNoAtacc` | mvpatel2000_Battlecode2020 (554943e) | - | - | untested |  |
 | `mvpatel2000.seeding` | mvpatel2000_Battlecode2020 (554943e) | - | - | untested |  |
@@ -280,7 +280,7 @@ build with at least 200 recorded games: a candidate's short ladder arm never re-
 | `poortho.rush` | poortho_battlecode-2020 (ebbd61e) | - | - | untested |  |
 | `poortho.rush_bot` | poortho_battlecode-2020 (ebbd61e) | - | - | untested |  |
 | `poortho.stable_miner1` | poortho_battlecode-2020 (ebbd61e) | - | - | untested |  |
-| `poortho.stable_seeding_bot` | poortho_battlecode-2020 (ebbd61e) | 37 | 30 | target | 0 17 27 31 0 30 31 50 39 33 25 33 33 17 42 37 33 |
+| `poortho.stable_seeding_bot` | poortho_battlecode-2020 (ebbd61e) | 37 | 30 | target | 0 17 27 31 0 30 31 50 39 33 25 33 33 17 42 37 33 17 |
 | `ps789.dennisTestPlayer` | ps789_AZBattlecode (f1d54ab) | - | - | untested |  |
 | `ps789.phillipTestPlayer` | ps789_AZBattlecode (f1d54ab) | - | - | untested |  |
 | `ronniesong0809.finalbota` | ronniesong0809_battlecode20-RADS (1cee065) | 0 | 11 | locked | 0 18 15 7 0 0 |
@@ -326,9 +326,9 @@ build with at least 200 recorded games: a candidate's short ladder arm never re-
 | `willBoyd8.droideka` | willBoyd8_BattleDroid (4b1d4ad) | - | - | untested |  |
 | `willBoyd8.empire` | willBoyd8_BattleDroid (4b1d4ad) | - | - | untested |  |
 | `willBoyd8.mouse` | willBoyd8_BattleDroid (4b1d4ad) | - | - | untested |  |
-| `winkelmantanner.tannerplayer` | winkelmantanner_battlecode2020_the-levee-builders (7f49f11) | 23 | 30 | target | 0 25 15 23 0 36 12 8 23 17 |
+| `winkelmantanner.tannerplayer` | winkelmantanner_battlecode2020_the-levee-builders (7f49f11) | 23 | 30 | target | 0 25 15 23 0 36 12 8 23 17 25 |
 | `wpine215.stardustv1` | wpine215_battlecode (d570d57) | - | - | untested |  |
-| `wpine215.stardustv2` | wpine215_battlecode (d570d57) | 87 | 30 | peer | 0 30 50 65 100 70 77 58 78 83 67 75 87 100 83 67 |
+| `wpine215.stardustv2` | wpine215_battlecode (d570d57) | 87 | 30 | peer | 0 30 50 65 100 70 77 58 78 83 67 75 87 100 83 67 100 |
 | `yaonam.Robot_1` | yaonam_battlecode2020 (bb363f5) | 83 | 12 | peer | 62 100 83 100 |
 
 285 bot packages from 68 repositories.

diff --git a/TRAINING_LOG.md b/TRAINING_LOG.md
@@ -1629,6 +1629,10 @@ out). **49b: `HELPER_HOLD` 230**, snapshot `src/cand49b`; **`gate49b`** (paired 
 Pre-registered: the gain is a taller ring in the last 500 rounds, which the mirror sees directly; the gate decides,
 the arm reads the late losses (g_iter9: 56 of 240, 22 or fewer of 96 is the bar).
 
+**Arm 49b: 42-54, rating 1751 +- 74 (g_iter9 1727 +- 48), late losses 25 of 96 (the bar was 22; g_iter9's rate gives 22.4),
+raid-window 27, early 2.** Null on the arm. Gate 49b at 160 pairs: discordant 3-0 -- the change flips one game in
+fifty, all its way so far.
+
 ## Iteration 39 -- the stalled seat-seeker fills the pit (2026-09-25, on g_iter7)
 
 **Evidence:** the flood-round census (78 of 89 such losses have an unseated ring tile at r500; GSF, Hills, Spiral,
